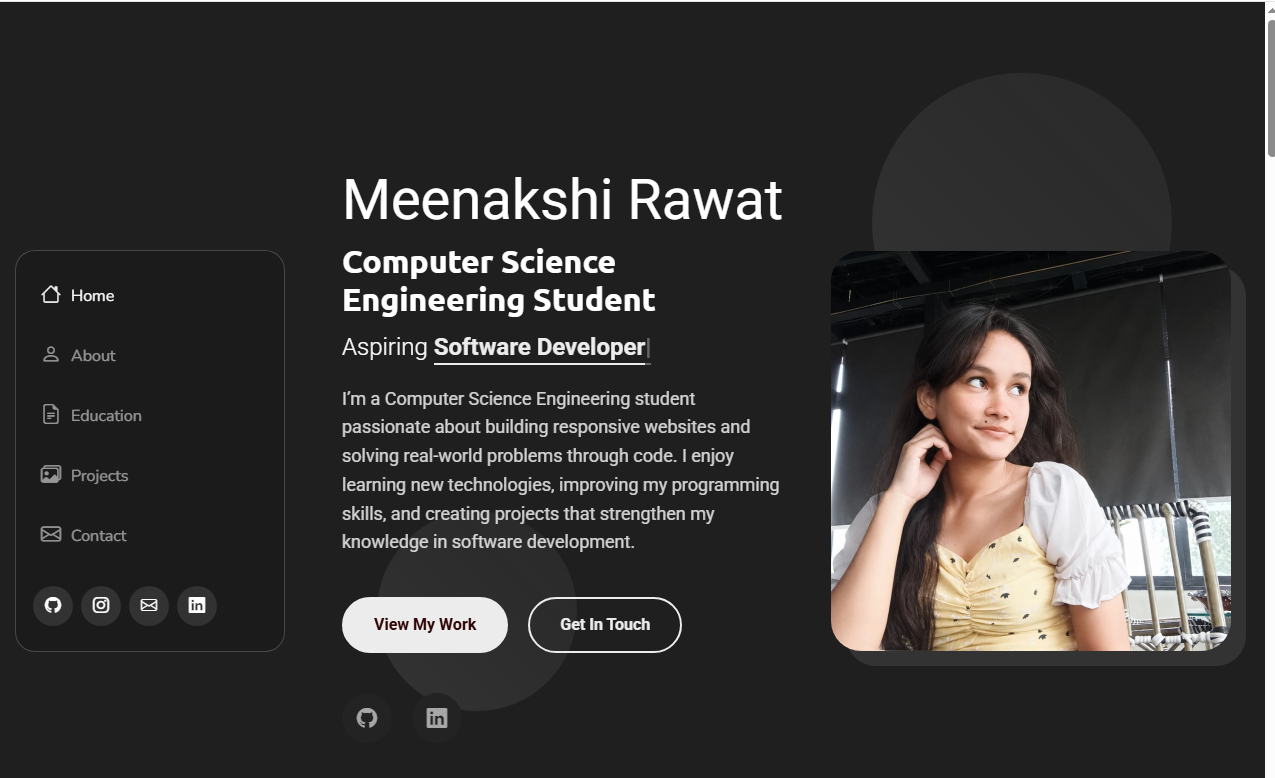
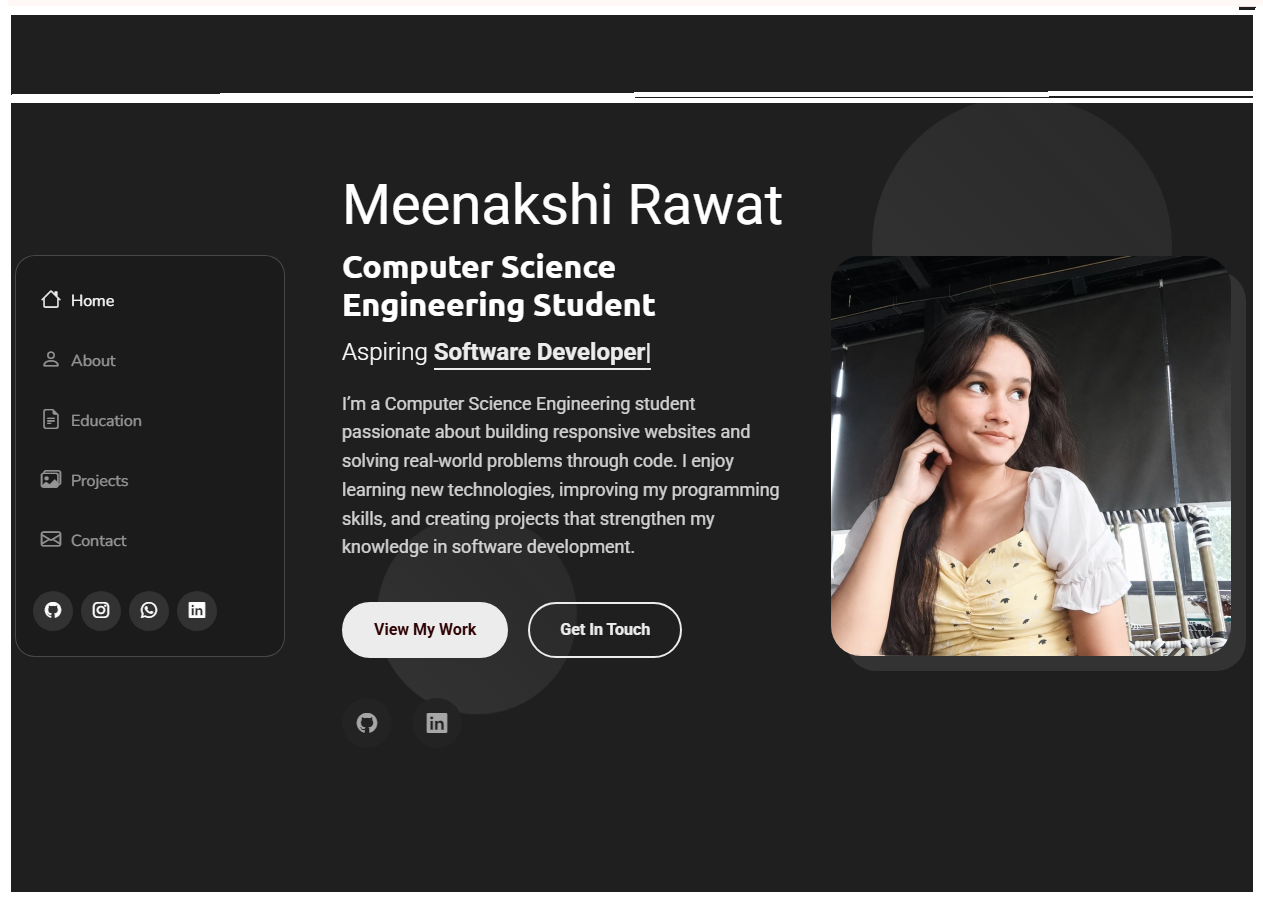
updated

diff --git a/index.html b/index.html
@@ -86,7 +86,7 @@
               <div class="hero-visual">
                 <div class="profile-container">
                   <div class="profile-background"></div>
-                  <img src="assets/img/profile/meena.jpg" alt="Meenakshi" class="profile-image">
+                  <img src="assets/img/profile/profile-2.png" alt="Meenakshi" class="profile-image">
                 </div>
               </div>
             </div>
@@ -381,7 +381,7 @@
       <!-- Project 4 -->
       <div class="col-lg-6">
         <div class="card shadow border-0 rounded-4 h-100">
-          <img src="assets/img/projects/portfolio.png" class="project-img" alt="Portfolio Website">
+          <img src="assets/img/projects/portfolio.png" class="project-img" class="card-img-top" alt="Portfolio Website">
           <div class="card-body">
             <h4>Personal Portfolio</h4>
             <p>
